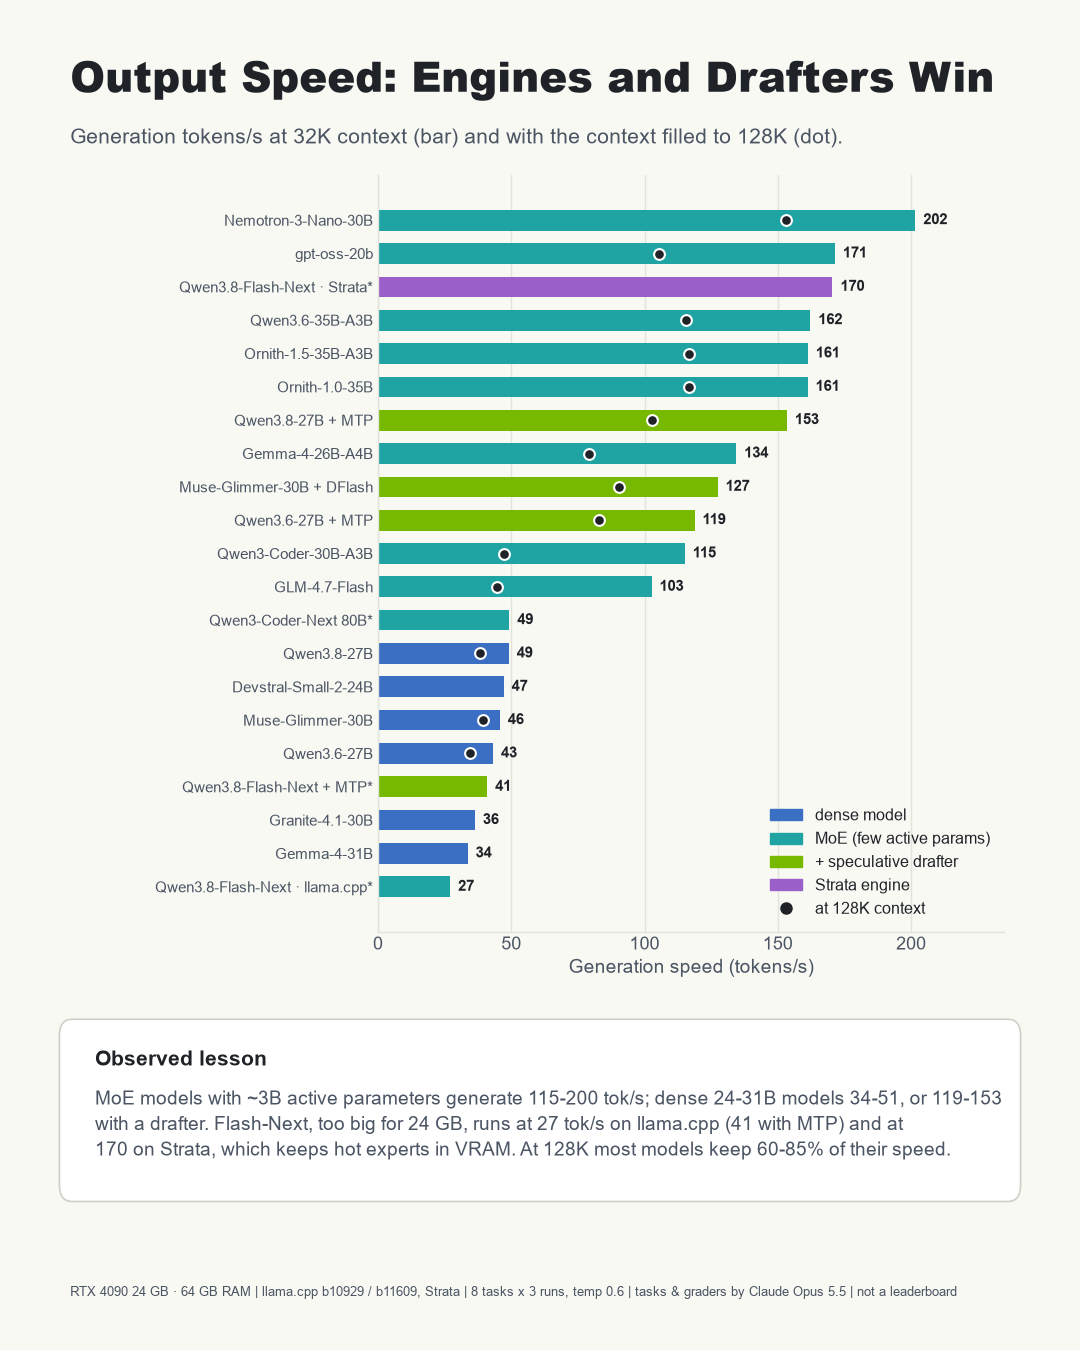
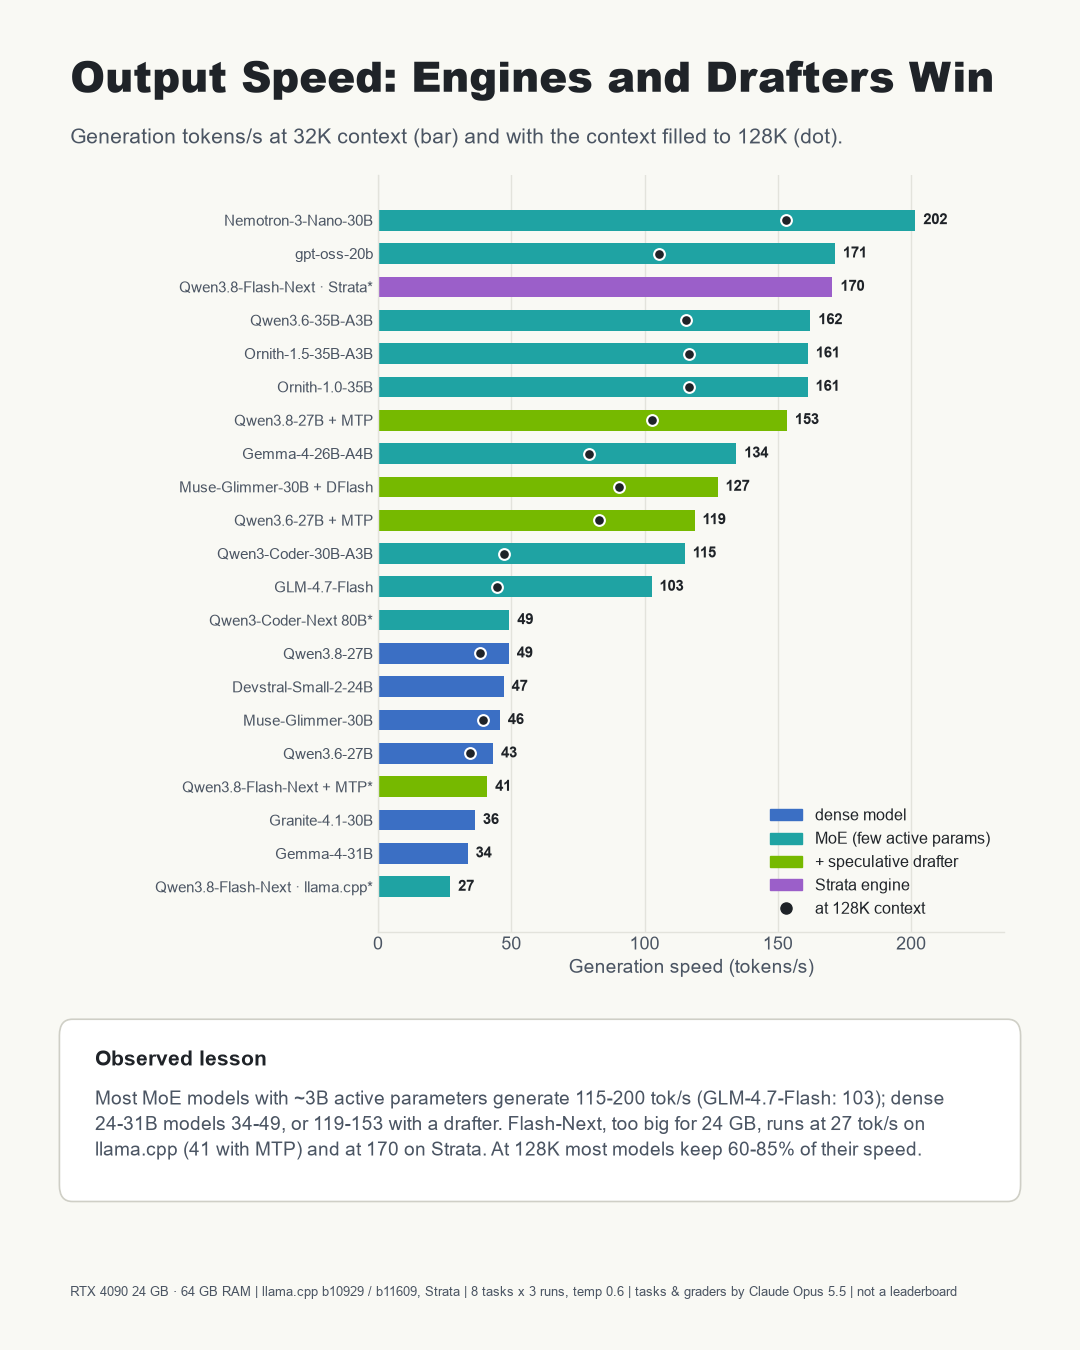
Fix speed claims: same-file engine comparison (33 -> 170 tok/s), GLM-4.7-Flash as the MoE exception, dense range 34-49

Changed region(s): [[0.0917, 0.8089, 0.9167, 0.8711]]

diff --git a/docs/index.html b/docs/index.html
@@ -55,7 +55,7 @@
   <div class="tiles">
     <div class="tile cloud"><div class="k">Best cloud</div><div class="v">98.8</div><div class="s">Claude Sonnet 5.5 · medium</div></div>
     <div class="tile local"><div class="k">Best local (tie)</div><div class="v">92.5</div><div class="s">Muse-Glimmer-30B · Qwen3.8-Flash-Next on Strata</div></div>
-    <div class="tile accent"><div class="k">Same model, other engine</div><div class="v">27 → 170</div><div class="s">tok/s, llama.cpp vs Strata</div></div>
+    <div class="tile accent"><div class="k">Same file, other engine</div><div class="v">33 → 170</div><div class="s">tok/s, llama.cpp vs Strata (5.2x)</div></div>
     <div class="tile"><div class="k">Runs below half marks</div><div class="v">64 / 582</div><div class="s">only 1 from the cloud</div></div>
   </div>
 

diff --git a/scripts/make_charts.py b/scripts/make_charts.py
@@ -369,9 +369,9 @@ def c07_generation():
     rows.sort(key=lambda r: r[1])
     fig = frame('Output Speed: Engines and Drafters Win', 'Generation tokens/s at 32K context (bar) and with the '
                 'context filled to 128K (dot).', 'Observed lesson',
-                'MoE models with ~3B active parameters generate 115-200 tok/s; dense 24-31B models 34-51, or 119-153\n'
-                'with a drafter. Flash-Next, too big for 24 GB, runs at 27 tok/s on llama.cpp (41 with MTP) and at\n'
-                '170 on Strata, which keeps hot experts in VRAM. At 128K most models keep 60-85% of their speed.')
+                'Most MoE models with ~3B active parameters generate 115-200 tok/s (GLM-4.7-Flash: 103); dense\n'
+                '24-31B models 34-49, or 119-153 with a drafter. Flash-Next, too big for 24 GB, runs at 27 tok/s on\n'
+                'llama.cpp (41 with MTP) and at 170 on Strata. At 128K most models keep 60-85% of their speed.')
     ax = fig.add_axes([0.35, 0.31, 0.58, 0.56])
     style(ax, '', 'Generation speed (tokens/s)', 'x')
     ys = range(len(rows))
@@ -400,9 +400,9 @@ def c08_reading():
     rows.sort(key=lambda r: r[1])
     fig = frame('Reading Speed Sets the Wait', 'Prompt processing tokens/s at 32K, and time to first token at 32K and '
                 'at ~110K tokens.', 'Observed lesson',
-                'MoE models read 6,000-10,500 tok/s: 110K tokens in 16-23 s. Dense models read 2,400-3,300 tok/s and\n'
-                'wait 40-60 s. Weights in system RAM are the slowest: Flash-Next on llama.cpp reads 216 tok/s, two\n'
-                'minutes before the first token at 32K. Strata reads the same model at 3,200 tok/s (10 s).')
+                'Most MoE models read 6,000-10,500 tok/s: 110K tokens in 16-23 s (GLM-4.7-Flash and\n'
+                'Qwen3-Coder-30B are slower). Dense models read 2,400-3,300 tok/s and wait 40-60 s. Weights in\n'
+                'system RAM are slowest: Flash-Next reads 216 tok/s on llama.cpp and 3,200 on Strata (10 s).')
     ax = fig.add_axes([0.35, 0.31, 0.34, 0.56])
     style(ax, '', 'Prompt processing at 32K (tok/s)', 'x')
     ys = range(len(rows))

diff --git a/README.md b/README.md
@@ -19,8 +19,8 @@ newer models, harder tasks, repeated runs, long-context stress, engine compariso
   Strata engine with 43-47 GB of its experts in system RAM, and is steadier (±2.9 vs ±5.1).
 - **The gap left is reading a repository.** On six of eight tasks the best local score is within 3 points of
   Sonnet 5.5, and on the agent task Flash-Next on Strata scores higher. Task E is still 7 points behind.
-- **The engine matters as much as the model.** The same Flash-Next weights generate 27 tok/s on stock llama.cpp and
-  170 tok/s on Strata.
+- **The engine matters as much as the model.** On the identical 3-bit file, Flash-Next generates 33 tok/s on
+  llama.cpp and 170 tok/s on Strata (5.2x).
 - **One user and several users want different setups.** Strata is fastest for one person; Muse-Glimmer on
   llama.cpp serves four people at 237 tok/s combined.
 
@@ -177,8 +177,9 @@ four runs, fixing one bug only well enough to pass the visible tests before decl
 
 ![Quality vs speed](docs/assets/charts/06_quality_vs_speed.png)
 
-- MoE models with about 3B active parameters generate 115-200 tok/s and read 6,000-10,500 tok/s.
-- Dense 24-31B models generate 34-51 tok/s. A speculative drafter lifts them to 119-153 tok/s at +1.4 to +2.4 GB VRAM
+- Most MoE models with about 3B active parameters generate 115-200 tok/s and read 6,000-10,500 tok/s; GLM-4.7-Flash
+  is the exception (103 tok/s, reads 3,244).
+- Dense 24-31B models generate 34-49 tok/s. A speculative drafter lifts them to 119-153 tok/s at +1.4 to +2.4 GB VRAM
   with no measurable quality change; the cost is a shorter usable context (Qwen3.6-27B: 188K to 132K).
 - Flash-Next on Strata is the only top-scoring local setup that is fast out of the box (Strata's MTP drafter is
   built in). Its cost is system RAM, not VRAM.
